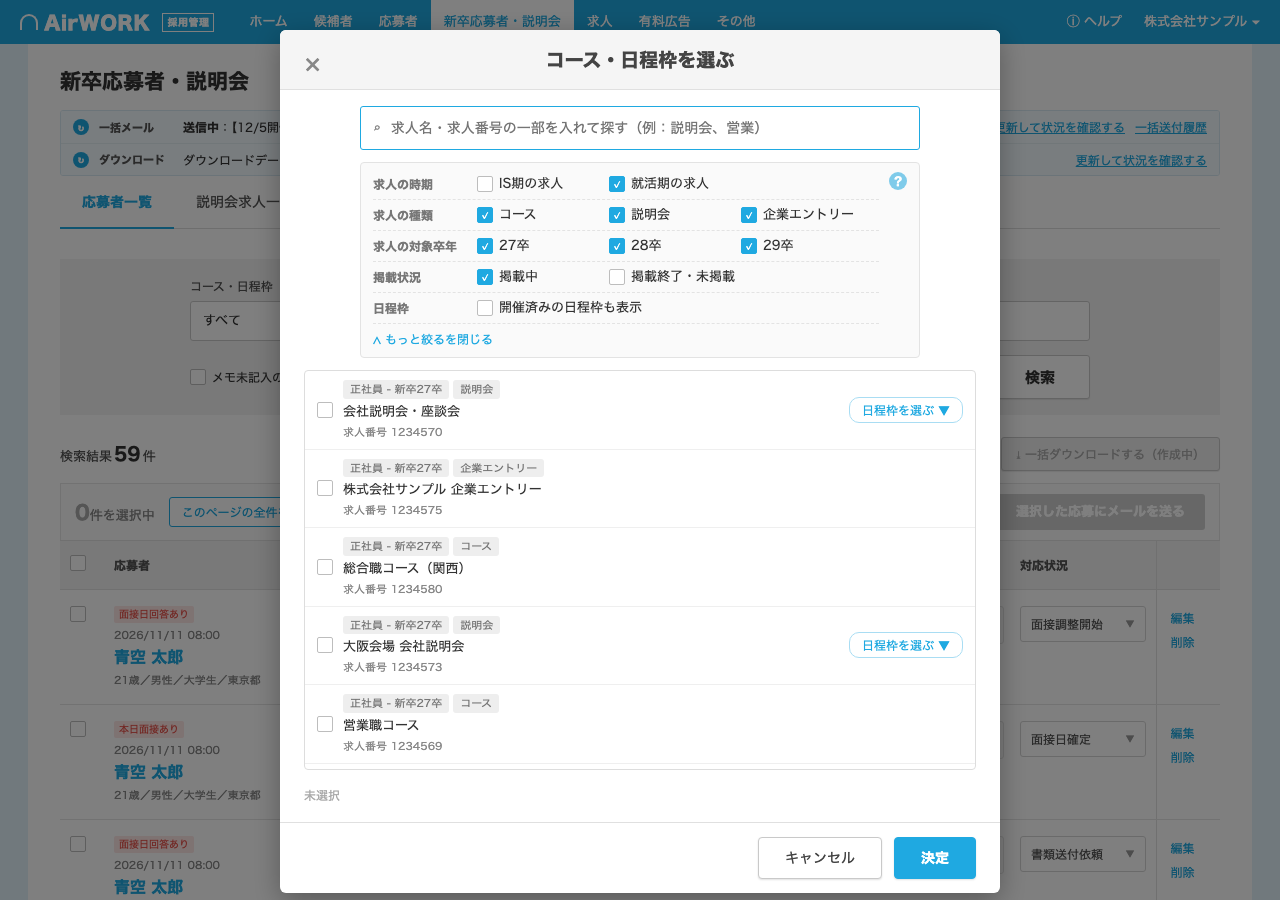
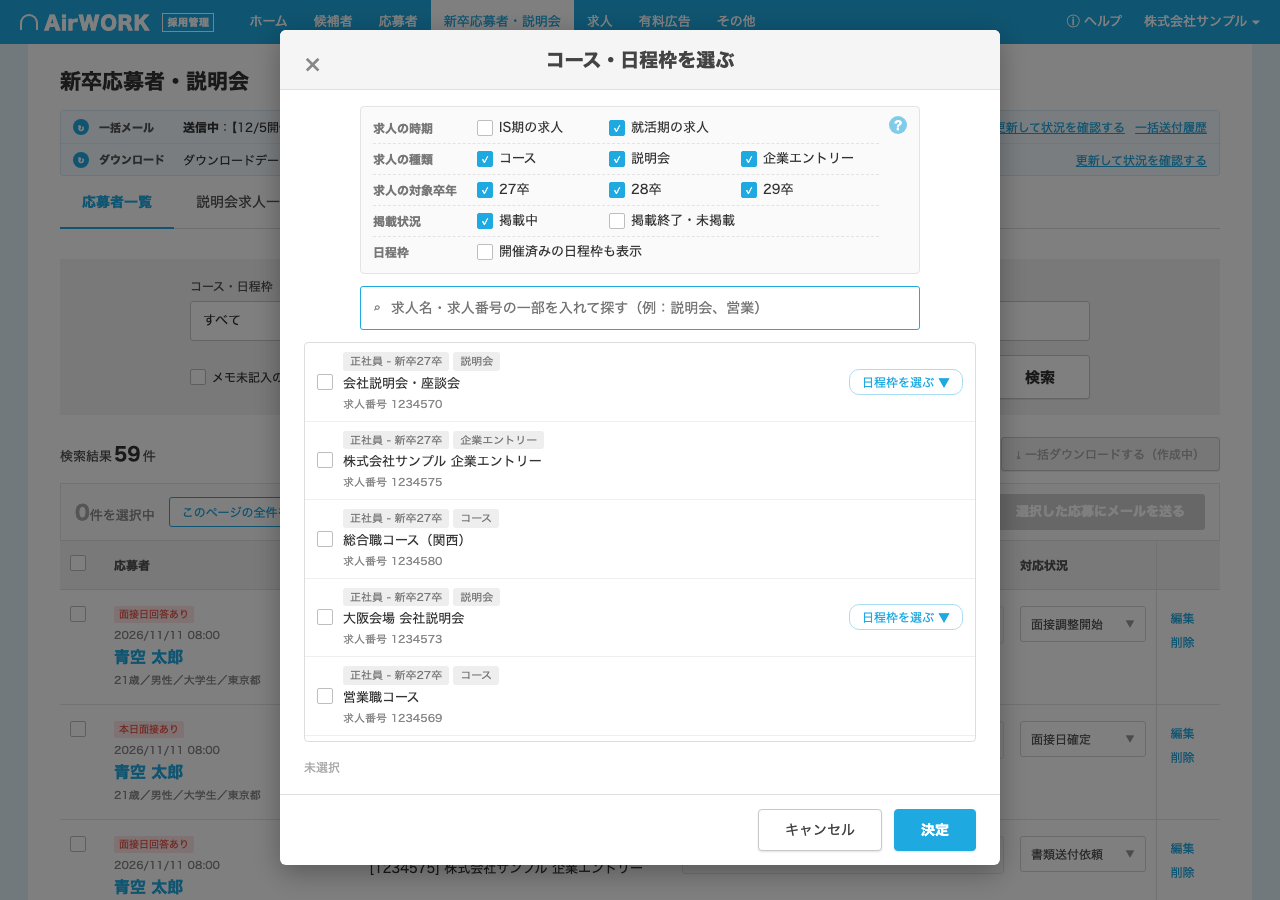
モーダルの絞り込みを最初から全部表示し、フリーワードを絞り込みの下へ移動

diff --git a/app.js b/app.js
@@ -450,7 +450,7 @@
   $('demoDl').onchange = renderAlerts;
 
   // ---------- コース・日程枠モーダル ----------
-  const M = { fs: null, q: '', more: false, focus: null, jobs: new Set(), slots: new Set() };
+  const M = { fs: null, q: '', focus: null, jobs: new Set(), slots: new Set() };
   const appsOfJob = (jid) => APPS.filter((a) => a.job === jid);
   const hasApps = (jid) => APPS.some((a) => a.job === jid);
   const allSlotKeys = (jid) => ['none', ...SLOTS[jid].map((x) => x.id)].map((sid) => `${jid}:${sid}`);
@@ -493,7 +493,7 @@
       .sort((a, b) => b.created.localeCompare(a.created));
   }
   function openModal() {
-    Object.assign(M, { fs: defaultFs(), q: '', more: false, focus: null, jobs: new Set(F.jobs), slots: new Set(F.slots) });
+    Object.assign(M, { fs: defaultFs(), q: '', focus: null, jobs: new Set(F.jobs), slots: new Set(F.slots) });
     $('mdQ').value = '';
     $('ov').classList.add('open'); $('md').classList.add('open');
     renderModal();
@@ -502,10 +502,7 @@
   function renderModal() {
     const fs = M.fs;
     const isIS = !fs.season.has('main');
-    const d = defaultFs();
-    const moreSet = fs.year.size !== d.year.size || fs.post.size !== 1 || !fs.post.has('on') || fs.past.size > 0;
-    $('moreLk').textContent = M.more ? '∧ もっと絞るを閉じる' : `∨ もっと絞る${moreSet ? '（指定中）' : ''}`;
-    $('frows').innerHTML = FROWS.filter((r) => !r[3] || M.more).map(([f, label, opts]) => `<div class="frow"><span class="fl">${label}</span>${opts().map(([v, t]) => {
+    $('frows').innerHTML = FROWS.map(([f, label, opts]) => `<div class="frow"><span class="fl">${label}</span>${opts().map(([v, t]) => {
       const dis = f === 'type' && v === 'seminar' && isIS;
       return `<label class="cb ${dis ? 'dis' : ''}" data-f="${f}" data-v="${v}"><span class="box ${fs[f].has(v) && !dis ? 'on' : ''}"></span>${t}</label>`;
     }).join('')}</div>`).join('');
@@ -554,7 +551,6 @@
   $('mdCancel').onclick = closeModal;
   $('ov').onclick = closeModal;
   $('mdApply').onclick = () => { F.jobs = [...M.jobs]; F.slots = [...M.slots]; closeModal(); changed(); };
-  $('moreLk').onclick = () => { M.more = !M.more; renderModal(); };
   $('mdQ').oninput = () => { M.q = $('mdQ').value.trim(); renderModal(); };
   const MD_YEARS = [...new Set(JOBS.flatMap((j) => j.years))].sort();
   $('frows').onclick = (e) => {

diff --git a/index.html b/index.html
@@ -69,10 +69,10 @@
     <div class="mh"><span class="x" id="mdClose">×</span><h2>コース・日程枠を選ぶ</h2></div>
     <div class="mb">
       <div class="mtop">
+        <div class="fbox"><div id="frows"></div><span class="qtip down click ftip" id="kTip">?<span class="qbox">応募が1件以上ある求人だけを出しています。<br>応募がまだない求人は出ません。</span></span></div>
         <div class="tools">
           <label class="srch big"><span class="mg">⌕</span><input id="mdQ" placeholder="求人名・求人番号の一部を入れて探す（例：説明会、営業）"></label>
         </div>
-        <div class="fbox"><div id="frows"></div><span class="morelk" id="moreLk">∨ もっと絞る</span><span class="qtip down click ftip" id="kTip">?<span class="qbox">応募が1件以上ある求人だけを出しています。<br>応募がまだない求人は出ません。</span></span></div>
       </div>
       <div class="panes" id="panes">
         <div class="left">

diff --git a/style.css b/style.css
@@ -362,7 +362,6 @@ body.dirty table, body.dirty .pager, body.dirty .pinfo, body.dirty .empty { opac
 .fbox .frow label.cb:nth-of-type(3n+1) { grid-column: 2; }
 .mtop { width: 560px; margin: 0 auto; }
 .mtop .desc { text-align: center; margin-left: -56px; margin-right: -56px; }
-.fbox .morelk { display: inline-block; font-size: 12px; padding: 6px 0 3px; border-top: 1px dashed #E3E3E3; width: 100%; }
 .fbox .ftip .qbox { left: auto; right: -10px; }
 .fbox .ftip .qbox::after { left: auto; right: 14px; }
 .mtabs { display: none !important; }
